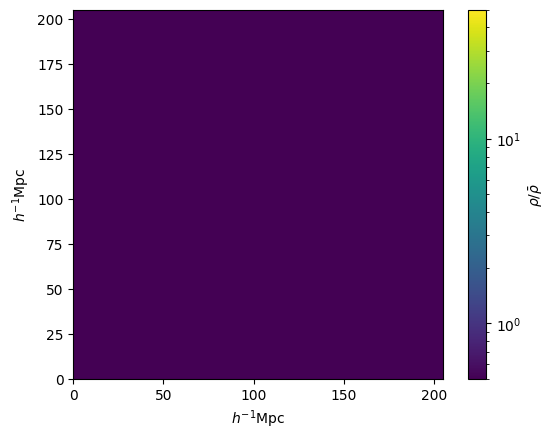
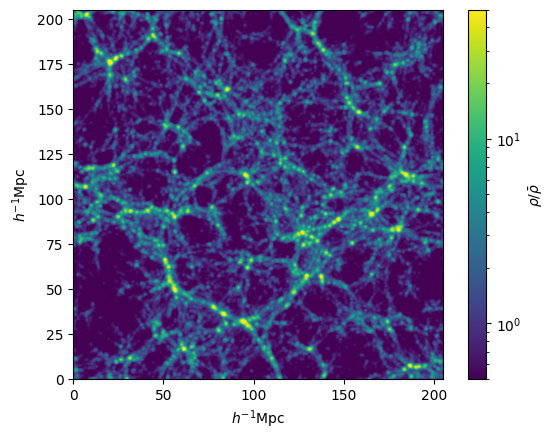
HI density maps v2

diff --git a/genimage_field.py b/genimage_field.py
@@ -16,7 +16,7 @@ except:
     #raise Exception("Something wrong with path.")
     Nmesh=256
 
-fout = f'FastPM_nHI_{Nmesh}.png'
+fout = f'TNG300-3_nHI_{Nmesh}.png'
 plane = 'XY'
 offset = 0.
 slicew = 20.
@@ -41,7 +41,8 @@ indices[axnum] = slice(start, end)
 indices = tuple(indices)
 overdensity = overdensity[indices].sum(axis=axnum)/(end-start) # 2D overdensity (IDK WHY NORMLIZATION LIKE THAT)
 overdensity = np.transpose(overdensity)
-#print(np.max(overdensity), np.min(overdensity), np.mean(overdensity))
+overdensity *= 1e9 # FOR nHI VISUAL
+print(np.max(overdensity), np.min(overdensity), np.mean(overdensity))
 
 print("Overdensity generated, creating figure...")
 
